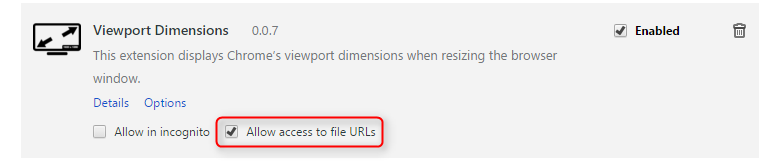
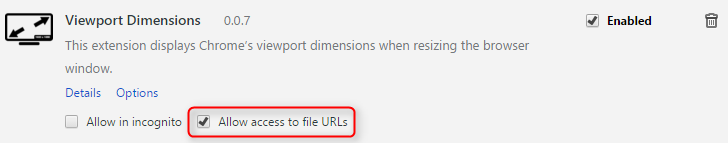
Class3 edits & removing unnecessary images

diff --git a/class3.html b/class3.html
@@ -68,16 +68,16 @@
 			       <p>Welcome! Please fill out the pizza poll at <a href="http://tinyurl.com/gdipizzaparty" target="_blank">http://tinyurl.com/gdipizzaparty</a></p>
 			  </div>
 			</section>
-				
+
 			<!-- Download Chrome Extension -->
 			<section>
 				<h2>Let's Download It!</h2>
 				<p><small>The <a href="https://chrome.google.com/webstore/detail/viewport-dimensions/kchdfagjljmhgapoonapmfngpadcjkhk?hl=en-US" target="_blank">Viewport Dimensions</a> extension displays the viewport dimensions in the lower right corner of the browser window when it's resized. This is helpful for responsive coding.</small></p>
 				<ol>
-					<li><img src="img/extension-settings.png" alt="The Chrome Settings menu" style="float:right;max-width: 19vw;" />Add <a href="https://chrome.google.com/webstore/detail/viewport-dimensions/kchdfagjljmhgapoonapmfngpadcjkhk?hl=en-US" target="_blank">Viewport Dimensions</a> to Chrome</li>
+					<li><img src="img/extension-settings.png" alt="The Chrome Settings menu" style="float:right;max-width: 10vw;" />Add <a href="https://chrome.google.com/webstore/detail/viewport-dimensions/kchdfagjljmhgapoonapmfngpadcjkhk?hl=en-US" target="_blank">Viewport Dimensions</a> to Chrome</li>
 					<li>Click the menu at the top right-hand side and click Settings</li>
 					<li>Click <em>Extensions</em> on the left</li>
-					<li>Check <span class="blue">Allow access to file URLs</span> under <em>Viewport Dimensions</em><br /><img src="img/extension-viewport.png" alt="Allowing access to file URLs" style="max-width: 52vw;" /></li>
+					<li>Check <span class="blue">Allow access to file URLs</span> under <em>Viewport Dimensions</em><br /><img src="img/extension-viewport.png" alt="Allowing access to file URLs" style="max-width:35vw;" /></li>
 				</ol>
 				<p class="fragment green">Awesome! &#128077;</p>
             </section>
@@ -90,7 +90,7 @@
 				</ol>
 				<p><br />You should now have four identical files with different names: <span class="orange">index.html</span>, <span class="orange">africa.html</span>, <span class="orange">diet.html</span>, and <span class="orange">stripes.html</span></p>
 			</section>
-			
+
 			<!-- Responsive Grid Systems -->
 			<section data-background="#f05b62">
                 <h1 style="color: #fafafa;font-size:3.7em">Responsive Grid Systems</h1>
@@ -98,9 +98,9 @@
 			<section>
 				<h3>What is a grid system?</h3>
 				<p class="fragment">CSS for columns with margins, which is used to align content (<a href="http://www.responsivegridsystem.com/layouts/" target="_blank">Example &raquo;</a>)</p>
-				<p class="fragment"><img src="img/design-grid.gif" alt="Our design with a grid" class="right" style="margin-left:1em" />Grid systems use <span class="orange">relative units</span> (e.g. <span class="blue">%</span> and <span class="blue">vw</span>) instead of fixed units (e.g. <span class="blue">px</span>) so that the layout adjusts according to the viewport width</p>	
+				<p class="fragment"><img src="img/design-grid.gif" alt="Our design with a grid" class="right" style="margin-left:1em" />Grid systems use <span class="orange">relative units</span> (e.g. <span class="blue">%</span> and <span class="blue">vw</span>) instead of fixed units (e.g. <span class="blue">px</span>) so that the layout adjusts according to the viewport width</p>
 				<p class="fragment">At narrower <span class="orange">breakpoints</span> (e.g. tablet or mobile), each column expands to fill the viewport in a <span class="orange">single column</span></p>
-			</section>			
+			</section>
 			<section>
 				<h3>Why do we &#9829; grid systems?</h3>
 				<ul>
@@ -109,7 +109,7 @@
 					<li class="fragment"><span class="blue">Faster to Code</span>: At different breakpoints, we can easily collapse everything into a single column</li>
 					<li class="fragment"><span class="blue">Less 'what if's</span>: Aligning content with a grid means there are less layout exceptions</li>
 					<li class="fragment"><span class="blue">Fluid</span>: Fluid layouts are the way of the future <span class="green">&#9786;</span></li>
-				</ul>				
+				</ul>
 			</section>
 			<section>
 				<h3>Popular Frameworks<br />Based On Grids</h3>
@@ -129,13 +129,13 @@
 					<li class="fragment"><img src="workshop-files/designs/home-grid-measurements.png" alt="Our design on a grid" style="max-width:40vw;" class="right" />Determine the maximum width from the design. In our case, that's <span class="blue">1170px</span>. This will be used as a <code>max-width</code> on each row.</li>
 					<li class="fragment">Calculate the <span class="green">gutter</span> (the margin between columns) width as a percentage of the maximum width. In our case, that's <span class="blue">2.56%</span> (or 30px/1170px).</li>
 					<li class="fragment">Use a <a href="http://www.responsivegridsystem.com/calculator/" target="_blank">grid generator</a> to generate the CSS. (<span class="green">But don't worry &mdash; we've done this for you!</span>)<!--</li>
-						<ul style="font-size:.7em;line-height:1.2" class="fragment">	
+						<ul style="font-size:.7em;line-height:1.2" class="fragment">
 							<li>Calculate the width of a single column as a percentage. In our case, that's <span class="blue">5.986%</span>.</li>
 							<li>Reference the design to see how many columns and gutters should be used in your CSS calculations</li>
 							<li>For example, a column that spanned 6 of 12 columns would have a width of 48.72%, or (6 x 5.986%) + (5 x 2.56%)</li>
-						</ul>-->						
+						</ul>-->
 					</li>
-				</ol>				
+				</ol>
 			</section>
 			<section>
 				<h3>Grid System CSS</h3>
@@ -166,14 +166,14 @@
 				</pre>
 				<p class="fragment green"><small><strong>Tip:</strong> To use multiple classes on a single element, separate each class with a space in your HTML as shown above.</small></p>
 			</section>
-			
+
 			<!-- Let's Develop It! -->
 			<section>
 				<h2>Let's Develop It!</h2>
-				<p>Let's grab the grid CSS from <a href="http://tinyurl.com/gdibostongrid" target="_blank">tinyurl.com/gdibostongrid</a>! Then let's start to set up <span class="green">About</span> and <span class="green">Mission</span>.</p> 
+				<p>Let's grab the grid CSS from <a href="http://tinyurl.com/gdibostongrid" target="_blank">tinyurl.com/gdibostongrid</a>! Then let's start to set up <span class="green">About</span> and <span class="green">Mission</span>.</p>
 				<p><img src="workshop-files/designs/home-grid-measurements.png" alt="Our design on a grid" style="max-height:50vh"/></p>
 			</section>
-			
+
 			<!-- Responsive Images -->
 			<section>
 				<h3>Responsive Images</h3>
@@ -188,7 +188,7 @@
 				<div class="fragment">
 					<p data-height="294" data-theme-id="0" data-slug-hash="avxxQp" data-default-tab="result" data-user="anythingcodes" class='codepen'>See the Pen <a href='http://codepen.io/anythingcodes/pen/avxxQp/'>Responsive Images - Before</a> by Liz Shaw (<a href='http://codepen.io/anythingcodes'>@anythingcodes</a>) on <a href='http://codepen.io'>CodePen</a>.</p>
 				</div>
-			</section>	
+			</section>
 
 			<!-- Let's Develop It!-->
 			<section>
@@ -196,7 +196,7 @@
 				<p>Let's make our images <em>truly</em> responsive!</p>
 				<p>Let's also make our <span class="blue">About</span> images circular with a border.</p>
 			</section>
-			
+
 			<!-- Gradients -->
 			<section>
 				<h3>Gradients</h3>
@@ -221,7 +221,7 @@
 				<p class="fragment">You can even make <span class="green">radial gradients</span></p>
 				<p class="fragment">To save yourself some time, bookmark the <a href="http://www.colorzilla.com/gradient-editor/" target="_blank">Ultimate CSS Gradient Generator</a></p>
 			</section>
-			
+
 			<!-- Let's Develop It! -->
 			<section>
 				<h2>Let's Develop It!</h2>
@@ -229,7 +229,7 @@
 				<p><img src="img/gradient-mission.png" alt="The gradient in our design" /></p>
 				<p>Feel free to use the <a href="http://www.colorzilla.com/gradient-editor/" target="_blank">Ultimate CSS Gradient Generator</a></p>
 			</section>
-			
+
 			<!-- Animations -->
 			<section data-background="#f05b62">
                 <h1 style="color: #fafafa;font-size:3.7em">Additional Animation Effects</h1>
@@ -267,7 +267,7 @@
 					<p data-height="268" data-theme-id="0" data-slug-hash="RWjLrR" data-default-tab="result" data-user="anythingcodes" class='codepen'>See the Pen <a href='http://codepen.io/anythingcodes/pen/xwBZjP'>Transition: After</a> by Liz Shaw (<a href='http://codepen.io/anythingcodes'>@anythingcodes</a>) on <a href='http://codepen.io'>CodePen</a>.</p>
 				</div>
 			</section>
-			
+
 			<!-- Multiple Properties -->
 			<section>
 				<h3>Animating Multiple Properties</h3>
@@ -298,8 +298,8 @@
 					<p style="color:firebrick"><small><br />Sounds great, right? However, <code>all</code> has performance drawbacks, so use it sparingly! (<a href="http://codepen.io/anythingcodes/pen/NGmEoY/?editors=110" target="_blank">Example &raquo;</a>)</small></p>
 				</div>
 			</section>
-			
-			<!-- Delaying Animations -->			
+
+			<!-- Delaying Animations -->
 			<section>
 				<h3>Property: <em>transition-delay</em></h3>
 				<p>Use <code>transition-delay</code> to delay when an animation begins</p>
@@ -312,12 +312,12 @@
 				<div class="fragment">
 					<p data-height="338" data-theme-id="0" data-slug-hash="PPgxEp" data-default-tab="result" data-user="anythingcodes" class='codepen'>See the Pen <a href='http://codepen.io/anythingcodes/pen/PPgxEp/'>Transition Delays</a> by Liz Shaw (<a href='http://codepen.io/anythingcodes'>@anythingcodes</a>) on <a href='http://codepen.io'>CodePen</a>.</p>
 				</div>
-			</section>			
-			
+			</section>
+
 			<!-- Transition Timing -->
 			<section>
 				<h3>Property:<br/><em>transition-timing-function</em></h3>
-				<p class="fragment">The <span class="blue">timing function</span> changes how fast or slow the animation is at parts of the animation</p>						
+				<p class="fragment">The <span class="blue">timing function</span> changes how fast or slow the animation is at parts of the animation</p>
 				<pre class="css fragment" style="font-size:15px">
 <code>selector {
     transition: width 3.5s;
@@ -332,7 +332,7 @@
 				<div class="fragment">
 					<p data-height="290" data-theme-id="0" data-slug-hash="JYVwgr" data-default-tab="result" data-user="anythingcodes" class='codepen'>See the Pen <a href='http://codepen.io/anythingcodes/pen/JYVwgr/'>Transition Timing Functions</a> by Liz Shaw (<a href='http://codepen.io/anythingcodes'>@anythingcodes</a>) on <a href='http://codepen.io'>CodePen</a>.</p>
 				</div>
-				<p class="fragment"><small><strong>Fun fact</strong>: The <span class="blue">timing function</span> is sometimes called the <span class="blue">speed curve</span></small></p>	
+				<p class="fragment"><small><strong>Fun fact</strong>: The <span class="blue">timing function</span> is sometimes called the <span class="blue">speed curve</span></small></p>
 			</section>
 			<section>
 				<h3>Property:<br /><em>transition-timing-function</em></h3>
@@ -341,7 +341,7 @@
 				<p class="fragment">With <span class="orange">cubic-bezier</span>, you can create your own timing function</p>
 				<p class="fragment">Use <a href="http://cubic-bezier.com/" target="_blank">cubic-bezier.com</a> to make your own timing function, and compare it to the built-in timing functions (such as <span class="green">ease</span> and <span class="green">linear</span>)</p>
 			</section>
-			
+
 			<!-- Transformations -->
 			<section>
 				<h3>Property: <em>transform</em></h3>
@@ -352,7 +352,7 @@
     transform: translate3d(0, -3px, 0);
     /* and more! */
 }</code>
-				</pre>				
+				</pre>
 				<p class="fragment"><code>transform</code> has too many values to list &mdash; use <a href="http://www.css3maker.com/css3-transform.html" target="_blank">CSS3Maker</a> or <a href="http://css3please.com/" target="_blank">CSS3, please!</a> to generate them</p>
 				<p class="fragment">A transformation is often animated with <code>transition</code></p>
 				<div class="fragment">
@@ -374,7 +374,7 @@
 				<h3>Creating a 3D Hover Effect</h3>
 				<!-- LIZ TODO: transform and box-shadow -->
 			</section>
-			
+
 
 			<!-- BEGIN UNEDITED -->
 
